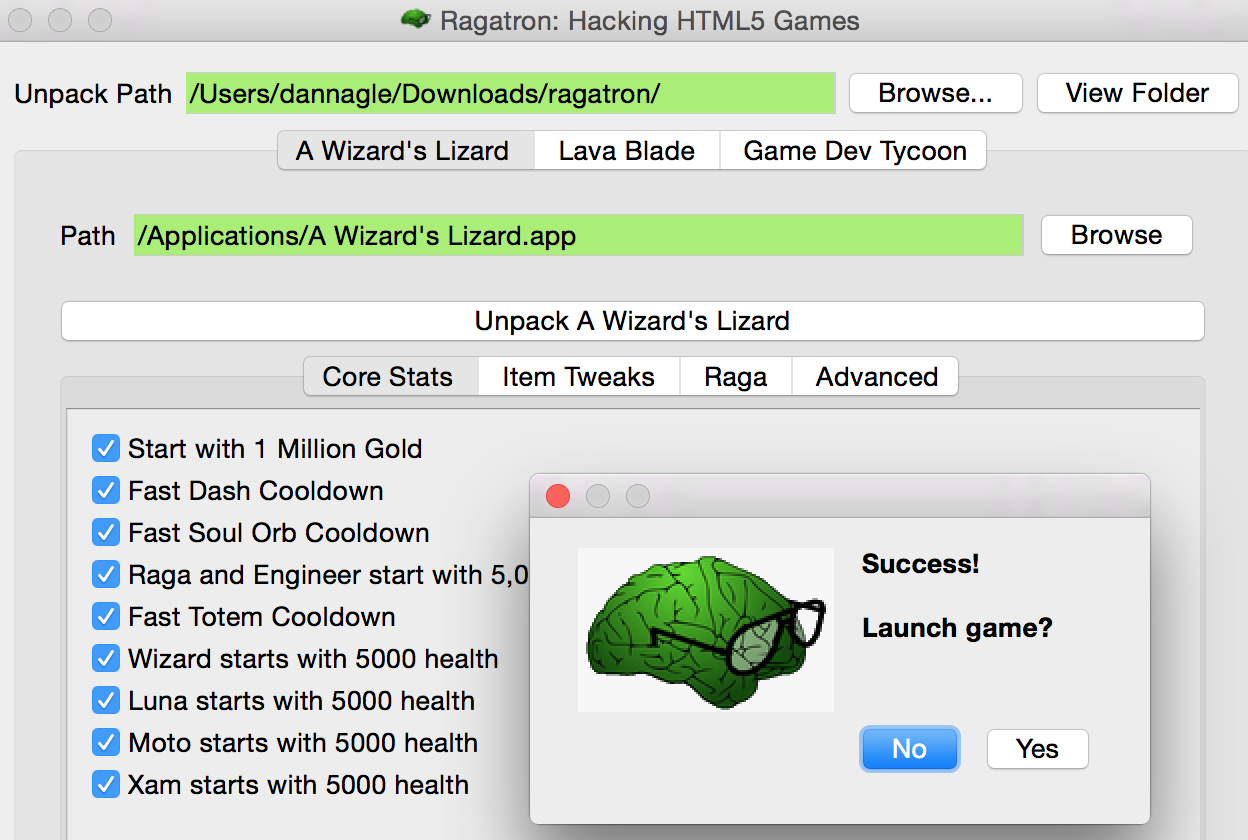
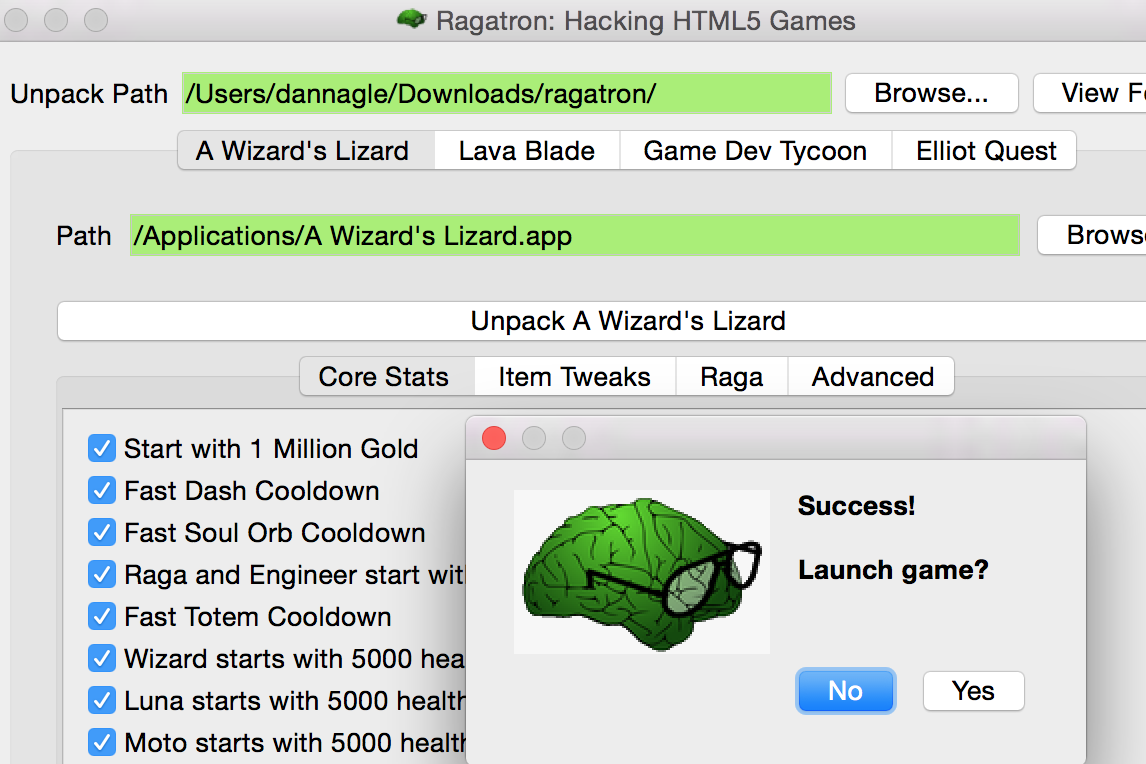
Elliot Quest readme

diff --git a/README.md b/README.md
@@ -1,12 +1,15 @@
 # Ragatron
 
-Ragatron is an open source hacking tool for HTML5 games. It targets [A Wizard's Lizard](http://www.wizardslizard.com) and [Lava Blade](http://www.lavablade.com) developed by [Lost Decade Games](http://www.lostdecadegames.com). It also targets [Game Dev Tycoon](http://www.greenheartgames.com/app/game-dev-tycoon/) by [Greenheart Games](http://www.greenheartgames.com) . It is available for Windows and (Intel-based) Mac.
+Ragatron is an open source hacking tool for HTML5 games. It targets [A Wizard's Lizard](http://www.wizardslizard.com) and [Lava Blade](http://www.lavablade.com) developed by [Lost Decade Games](http://www.lostdecadegames.com). It also targets [Game Dev Tycoon](http://www.greenheartgames.com/app/game-dev-tycoon/) by [Greenheart Games](http://www.greenheartgames.com) and [Elliot Quest](http://www.greenheartgames.com/app/game-dev-tycoon/) by [Ansimuz Games](http://ansimuz.com/). It is available for Windows and (Intel-based) Mac. The only targeted versions are copies purchased from the Humble Store.
 
 ![AWL hack screenshot](githubscreenshots/hacked_awl_crop.jpg) ![LB hack screenshot](githubscreenshots/lavablade_hack_crop.jpg)
 
 <img src="githubscreenshots/largebooth_cheap.png" alt="GDT hack screenshot" width="500px" >
 
-This project is not officially supported by Lost Decade Games nor Greenheart Games. However, *you* can officially support indie game developers by purchasing (multiple!) copies of their games to hack with this tool! ;-)
+
+<img src="githubscreenshots/hacked_elliotquest.png" alt="Elliot Quest hack" width="500px" >
+
+This project is not officially supported by Lost Decade Games, Greenheart Games, nor Ansimuz Games. However, *you* can officially support indie game developers by purchasing (multiple!) copies of their games to hack with this tool! ;-)
 
 
 
@@ -16,17 +19,6 @@ Ragatron can be downloaded at  [Ragatron.com](http://ragatron.com/)
 
 
 <img src="githubscreenshots/ragatron_screenshot.png" alt="Ragatron GUI" width="500px" >
-
-
-
-## Built-in Hacks for Game Dev Tycoon
-The only supported build is Humble Bundle version 2014-09-17
-
-- Contracts pay 100x
-- Research Points grow much faster
-- Large G3 Booth is cheap
-- Code Incomplete is Awesome!
-
 
 
 ## Built-in Hacks for A Wizard's Lizard
@@ -54,6 +46,37 @@ The only supported build is the version on Humble Bundle.
 - Blitz has extra movement, attack, and health
 - Earn more gold
 - Expose Developer Tools
+
+
+
+
+## Built-in Hacks for Game Dev Tycoon
+The only supported build is Humble Bundle version 2014-09-17
+
+- Contracts pay 100x
+- Research Points grow much faster
+- Large G3 Booth is cheap
+- Code Incomplete is Awesome!
+- Expose Developer Tools
+
+
+
+
+
+## Built-in Hacks for Elliot Quest
+The only supported build is Humble Bundle version 2015-03-25
+
+- Start with 16 hearts
+- Jump Higher
+- Stronger Arrow
+- Chest has 500 coins
+- Whirlwind is cheap
+- Flame is cheap
+- Rock is cheap
+- Ice is cheap
+- Expose Developer Tools
+
+
 
 ### Instructions
 
